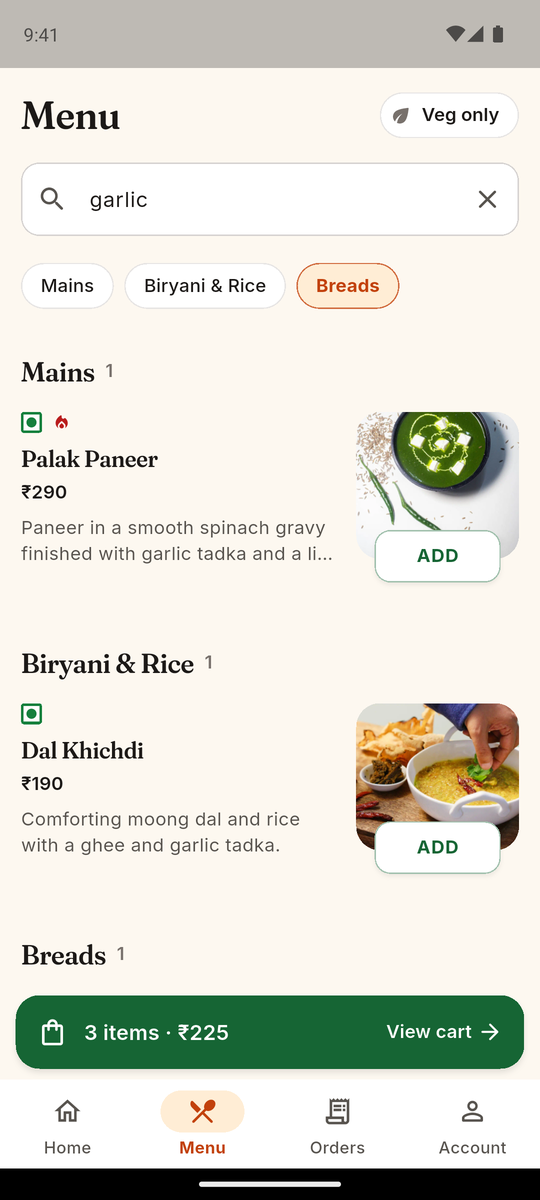
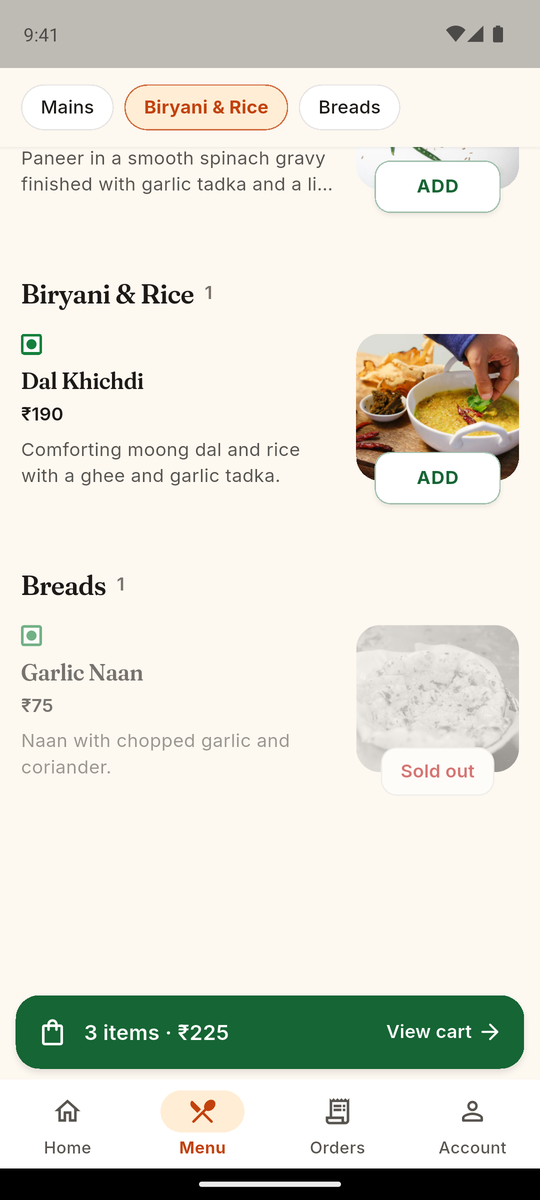
Retake the Android screenshots during opening hours, with no system dialog on the tablet board

diff --git a/integration_test/customer_flows_test.dart b/integration_test/customer_flows_test.dart
@@ -234,6 +234,7 @@ void main() {
       await search(tester, 'garlic');
       await pullToRefresh(tester);
       await waitFor(tester, find.text('Sold out'));
+      await reveal(tester, find.text('Garlic Naan'));
       await shot(tester, '15-menu-sold-out');
     } finally {
       await Api.setAvailable(29, true);
@@ -269,6 +270,7 @@ void main() {
     await tapOn(tester, find.text('Tomorrow'));
     final chip = tester.widget<ChoiceChip>(find.widgetWithText(ChoiceChip, time));
     expect(chip.onSelected, isNull, reason: 'the full slot cannot be chosen');
+    await reveal(tester, find.widgetWithText(ChoiceChip, time));
     await shot(tester, '17-slot-full');
     await tapOn(tester, find.text('As soon as possible').first);
     await tapOn(tester, find.text('Place order'));

diff --git a/integration_test/support/device.dart b/integration_test/support/device.dart
@@ -134,7 +134,8 @@ Future<void> reveal(WidgetTester tester, Finder target) async {
 /// Marks a screenshot moment: the host runner sees the line and captures the simulator.
 Future<void> shot(WidgetTester tester, String name) async {
   FocusManager.instance.primaryFocus?.unfocus();
-  await pause(tester, 900);
+  // Let photos finish loading and fading in (an emulator's network is slow).
+  await pause(tester, 3000);
   // ignore: avoid_print
   print('SHOT:$name');
   await pause(tester, 3000);
